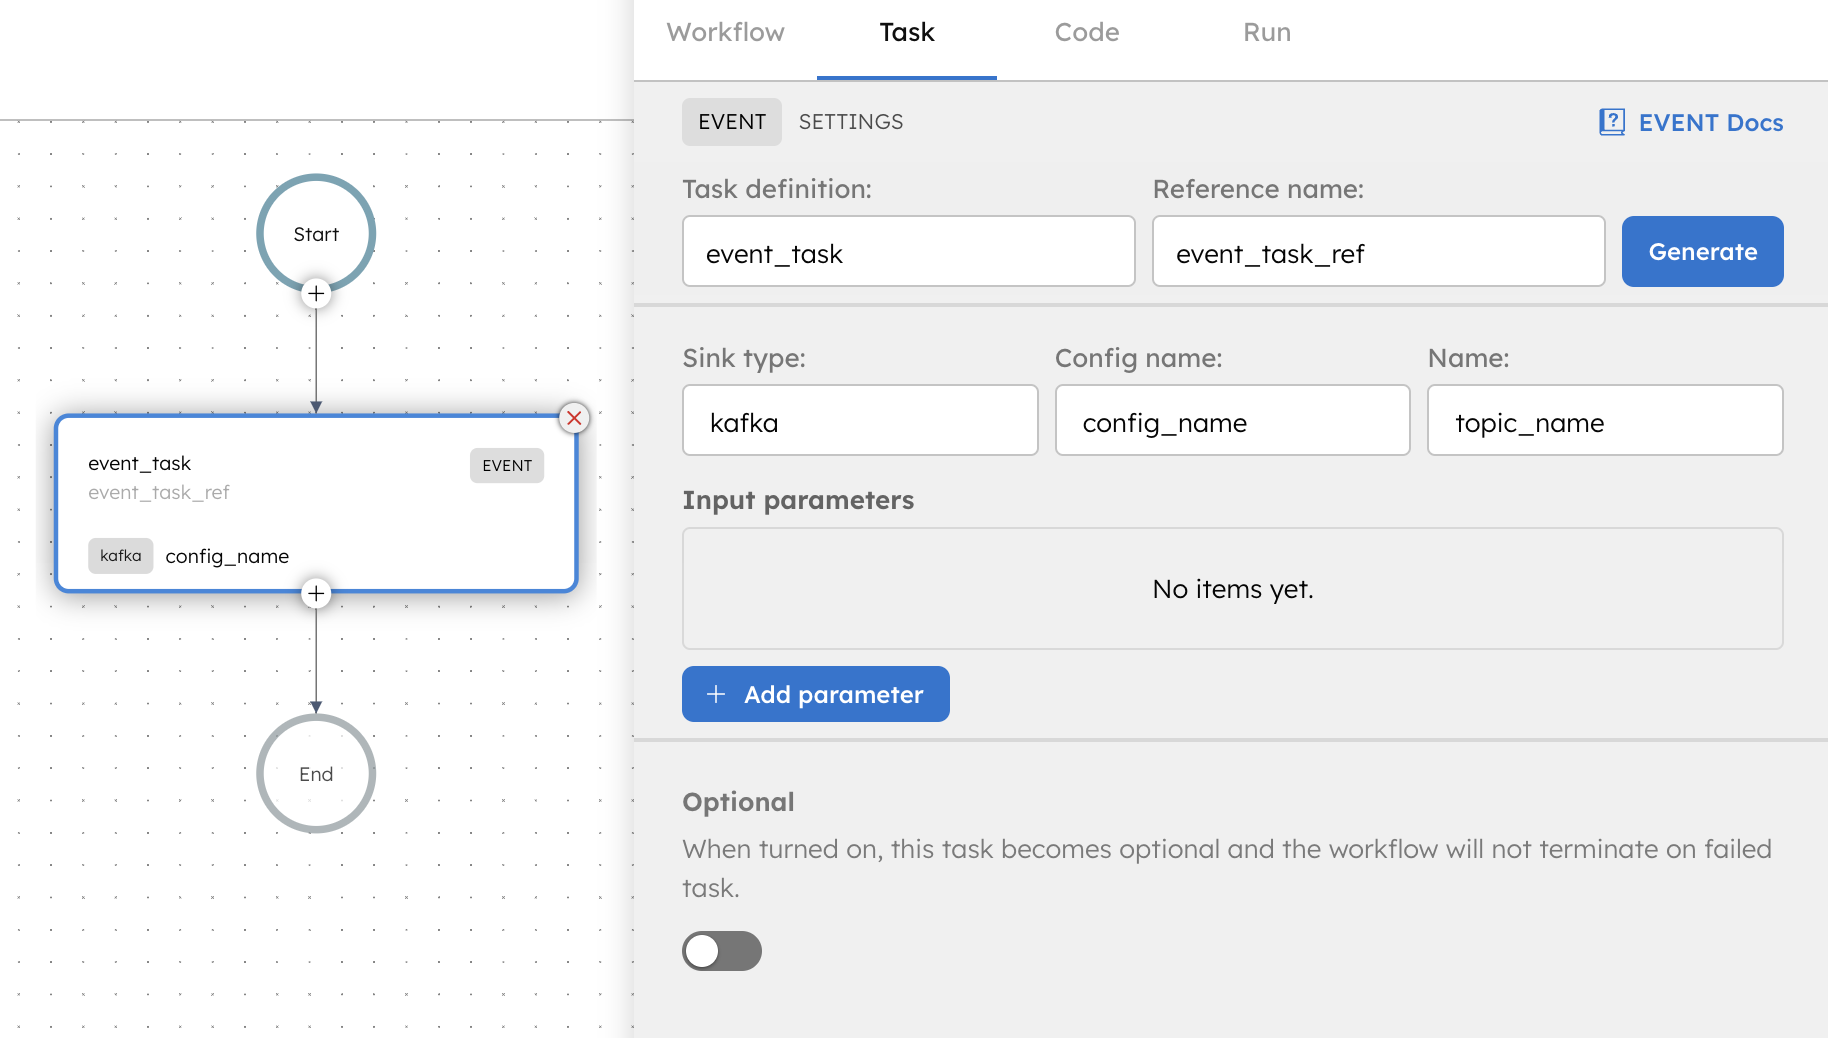
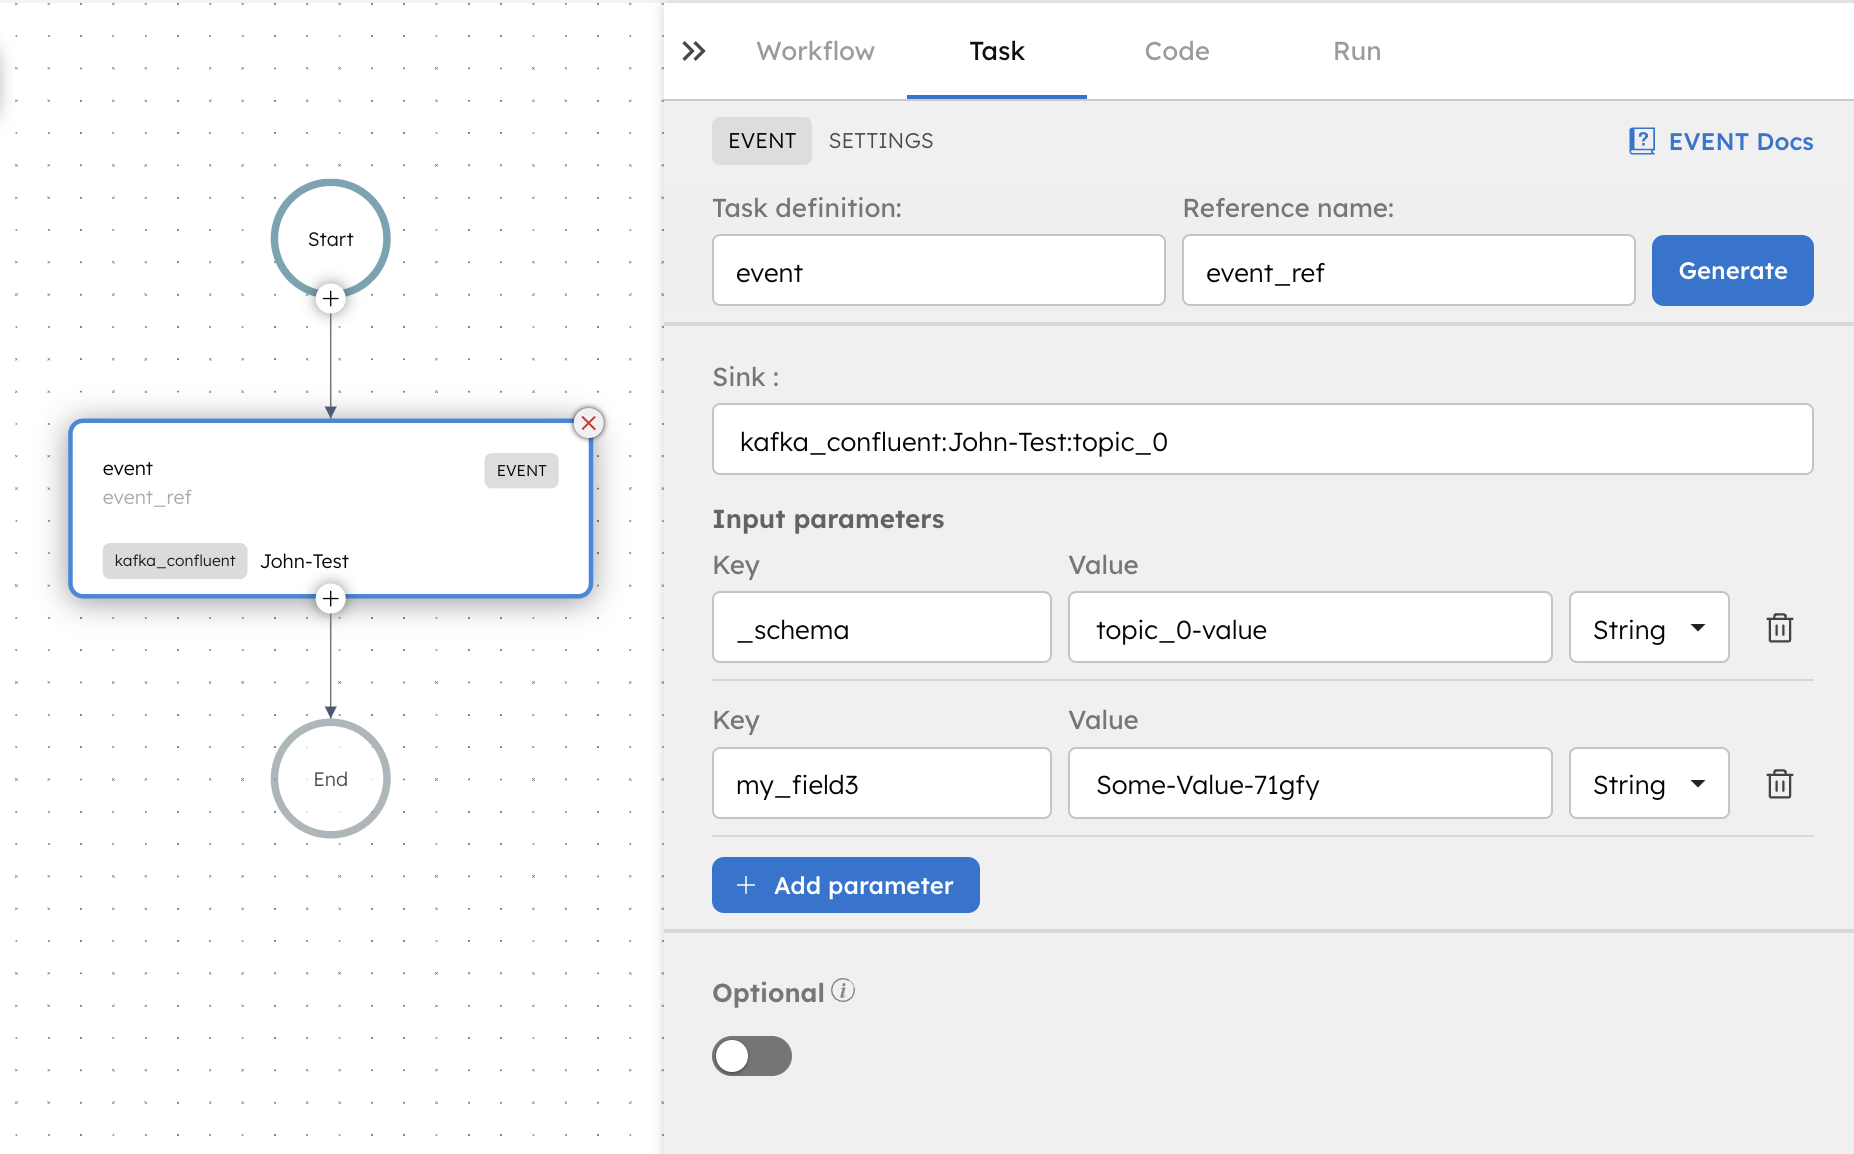
kafka-integration-doc

diff --git a/sidebars.js b/sidebars.js
@@ -123,11 +123,6 @@ const sidebars = {
                     id: 'developer-guides/sqs-integration',
                     label: "Orkes Conductor - SQS Integration"
                 },
-                {
-                    type: 'doc',
-                    id: 'developer-guides/integrating-orkes-conductor-with-confluent-cloud',
-                    label: "Orkes Conductor - Confluent Cloud"
-                },
             ],
             collapsible: true,
             collapsed: true,
@@ -459,6 +454,25 @@ const sidebars = {
                             type: 'doc',
                             id: 'integrations/vector-databases/weaviate',
                             label: 'Weaviate',
+                        },
+                    ],
+                    collapsible: true,
+                    collapsed: true,
+                    className: 'leftMenuHeader',
+                },
+                {
+                    type: 'category',
+                    label: 'Message Broker',
+                    link: {
+                        type: 'generated-index',
+                        title: 'Message Broker',
+                        slug: '/category/integrations/message-broker'
+                    },
+                    items: [
+                        {
+                            type: 'doc',
+                            id: 'integrations/message-broker/confluent-kafka',
+                            label: 'Confluent Kafka',
                         },
                     ],
                     collapsible: true,

diff --git a/docs/integrations/message-broker/confluent-kafka.md b/docs/integrations/message-broker/confluent-kafka.md
@@ -1,0 +1,209 @@
+# Integrating Confluent Kafka with Orkes Conductor
+
+This developer guide includes the steps to integrate Confluent Kafka with Orkes Conductor. This integration lets you connect your Confluent Kafka cluster to Conductor to publish and receive messages from queues/topics.
+
+## Get Configuration Credentials from Confluent Kafka
+
+Before beginning the integration process in Orkes Conductor, you must get specific configuration credentials such as the Bootstrap server, Schema registry URLs  & API keys from Confluent Cloud.
+
+To obtain the API Keys:
+
+1. From your [Confluent Cloud portal](https://confluent.cloud/), choose your cluster to be integrated with Orkes Conductor and navigate to **Cluster Overview > API Keys**.
+2. Create a new key by clicking **Create Key/+Add key** and selecting the required access (Global access/Granular access).
+3. Note down the values for the **Key** and **Secret**.
+
+<p align="center"><img src="/content/img/generating-api-keys-confluent.png" alt="Generating API Keys from Confluent Cloud" width="100%" height="auto"/></p>
+
+To get the Bootstrap server:
+
+1. Navigate to **Cluster Overview > Cluster Settings > Endpoints** and copy the **Bootstrap server**.
+
+<p align="center"><img src="/content/img/getting-bootstrap-token.png" alt="Getting Bootstrap token from Confluent Cloud" width="100%" height="auto"/></p>
+
+2. Then, navigate to **Topics** to see the list of topics on this cluster and identify the **Topic name** to use for this integration.
+
+<p align="center"><img src="/content/img/topics.png" alt="Topics in Confluent Cloud" width="100%" height="auto"/></p>
+
+To get the Schema registry server, API key & secret (This is only required if you are integrating with a schema registry):
+
+1. Go to **Clients > Add new client.**
+2. Under the **“Copy the configuration snippet for your clients”** section, copy the **_Schema Registry URL_** & download the Schema Registry API Key. The downloaded file will have the Schema Registry API Key & Secret.
+
+<p align="center"><img src="/content/img/schema-registry-url.png" alt="Getting Schema Registry URL" width="100%" height="auto"/></p>
+
+## Integrating with Confluent Kafka as a Message Broker
+
+Now, you have the required configuration credentials from Confluent Kafka. Let’s integrate with Orkes Conductor.
+
+1. Navigate to **Integrations** from the left menu on the Conductor cluster.
+2. Click **+ New integration** from the top-right corner of your window.
+3. Under the **Message Broker** section, choose **Confluent Kafka**.
+4. Click **+Add** and provide the following parameters:
+
+<p align="center"><img src="/content/img/integration-confluent-kafka.png" alt="Integration configuration for Confluent Kafka" width="50%" height="auto"/></p>
+
+| Paremeters | Description |
+| ---------- | ----------- |
+| Integration Name | A name to identify your integration. |
+| Bootstrap Server | Provide the bootstrap server for the cluster in your Confluent Kafka. Refer to the previous section on how to [get the bootstrap server](/content/integrations/message-broker/confluent-kafka#get-configuration-credentials-from-confluent-kafka). |
+| Sending Protocol | Choose the required sending protocol for the integration. It can take two values:<ul><li>String</li><li>AVRO</li></ul>If you are integrating with a schema registry, choose AVRO as the sending protocol. |
+| Connection Security | Choose the connection security. Currently supports **_SASL_SSL/PLAIN_**. |
+| Username | Provide the [API Key copied previously](/content/integrations/message-broker/confluent-kafka#get-configuration-credentials-from-confluent-kafka). |
+| Password | Provide the [API Secret copied previously](/content/integrations/message-broker/confluent-kafka#get-configuration-credentials-from-confluent-kafka). |
+| Schema Registry URL | Provide the Schema Registry URL from the Confluent Kafka console. [Refer to the previous section on how to get this](/content/integrations/message-broker/confluent-kafka#get-configuration-credentials-from-confluent-kafka).<br/>This field is only applicable if the **_Sending Protocol_** is chosen as AVRO. |
+| Schema Registry API Key | Provide the Schema Registry API Key from the Confluent Kafka console. [Refer to the previous section on how to get this](/content/integrations/message-broker/confluent-kafka#get-configuration-credentials-from-confluent-kafka).<br/>This field is only applicable if the **_Sending Protocol_** is chosen as AVRO. |
+| Schema Registry API Secret | Provide the Schema Registry API Secret from the Confluent Kafka console. [Refer to the previous section on how to get this](/content/integrations/message-broker/confluent-kafka#get-configuration-credentials-from-confluent-kafka).<br/>This field is only applicable if the **_Sending Protocol_** is chosen as AVRO. |
+| Description | Provide a description of the integration. | 
+
+5. You can toggle on the **Active** button to activate the integration instantly.
+6. Click **Save**.
+
+## Creating Event Handlers in Orkes Conductor 
+
+The integration is created successfully now. The next step is to create an event handler in Orkes Conductor.
+
+To do this:
+
+1. Navigate to **Definitions > Event Handler** from the left menu on your Conductor console.
+2. Click **+ Define event handler** option from the top-right corner of the window.
+3. Create an event handler with the following configurations:
+
+<p align="center"><img src="/content/img/event-handler-confluent-kafka.png" alt="Configuring Event Handler for Confluent Kafka Integration" width="50%" height="auto"/></p>
+
+| Event Handler Parameters | Description |
+| ------------------------ | ----------- |
+| Name | Provide a name to identify your event handler definition. |
+| Event | Provide the event integration you have created in the following format:<br/><br/>**Type : Config Name : Topic Name**<br/><br/>Example: **kafka_confluent:john-test:topic_0**<br/><br/>**Notes**: The drop-down lists the integration you’ve added to the Conductor cluster automatically. You can choose that and add the topic name you want to publish/receive messages. |
+| Condition | Provide the ECMAScript to control the message processing if required. Check out the [event handler documentation](https://orkes.io/content/developer-guides/event-handler#configuring-an-event-handler) for more details. |
+| Actions | Choose the required actions to be carried out on receiving the events from Kafka. It can take the following values:<ul><li>Complete Task</li><li>Terminate Workflow</li><li>Update Variables</li><li>Fail Task</li><li>Start Workflow</li></ul>Each type of action requires and supports a certain set of input parameters. Check out the [event handler documentation](https://orkes.io/content/developer-guides/event-handler#configuring-an-event-handler) for more details. |
+| Active | Set this to true or false. It determines if the event handler is running or not. |
+
+A sample JSON for the event handler is as follows:
+
+```json
+{
+ "name": "John-Test",
+ "event": "kafka_confluent:John-Test:topic_0",
+ "condition": "",
+ "actions": [
+   {
+     "action": "start_workflow",
+     "start_workflow": {
+       "name": "http-sample-test",
+       "version": 1,
+       "correlationId": "",
+       "input": {}
+     },
+     "expandInlineJSON": false
+   }
+ ],
+ "active": true,
+ "evaluatorType": "javascript"
+}
+```
+
+## RBAC - Governance on who can use Integrations
+
+Once the integration is added, the next step is determining who can access these integrations.
+
+The permissions can be granted to applications/groups within the Orkes Conductor cluster.
+
+To provide explicit permission to Groups:
+
+1. From the left menu on your Conductor cluster, navigate to **Access Control > Groups**.
+2. Create a new group or choose an existing group.
+3. Under the **Permissions** section, click **+Add Permission**.
+4. From the **Integrations** sub-tab, choose the integration with required permissions.
+5. Click **Add Permissions**. This ensures that all the group members can access these integration models in their workflows.
+
+<p align="center"><img src="/content/img/rbac-confluent-kafka.png" alt="Configuring RBAC for Confluent Kafka Integration" width="50%" height="auto"/></p>
+
+Similarly, you can also provide permissions to [applications](https://orkes.io/content/access-control-and-security/applications#configuring-application).
+
+## Creating Workflow in Orkes Conductor 
+
+This step involves creating a workflow with an event task in Orkes Conductor. Here, we are utilizing the Kafka queue as a sink for the event. 
+
+You can quickly build a workflow from UI in Orkes Conductor. 
+
+For this,
+
+1. Navigate to **Definitions > Workflow,** and click the **Define Workflow** button.
+2. Create a workflow with an event task with the **Sink** in the format **kafka_confluent:John-Test:topic_0**, where “John-Test” is the integration name and “topic_0” is the topic to which Conductor should send/receive messages.
+
+<p align="center"><img src="/content/img/event-task-confluent.png" alt="Event task in Orkes Conductor" width="80%" height="auto"/></p>
+
+3. Under the Input parameters, you need to provide the following parameters:
+    - **_schema** - Provide the topic name along with the subject. 
+        - To get the subject name, navigate to **Home > Environment** > Choose your environment on your Confluent console. 
+        - Under the **Schema Registry** sub-tab, you can get the subject name.
+        <p align="center"><img src="/content/img/subject-name-confluent.png" alt="Identifying subject name in Confluent Kafka" width="80%" height="auto"/></p>
+        - Provide this subject name as the input parameter “_schema” value while defining the workflow.
+4. Add all fields in your topic’s schema as the input parameters in the workflow definition.
+    - You can get your schema for the topic by navigating to the “Schema” subtab from your topic and clicking on “Evolve schema”.
+     <p align="center"><img src="/content/img/schema-confluent.png" alt="Identifying Schema parameters" width="80%" height="auto"/></p>
+     - For example, The topic I’ve chosen here is **_topic_0_**, whose Schema is as follows:
+    
+```json
+     {
+  "doc": "Sample schema to help you get started.",
+  "fields": [
+    {
+      "doc": "The string is a unicode character sequence.",
+      "name": "my_field3",
+      "type": "string"
+    }
+  ],
+  "name": "sampleRecord",
+  "namespace": "com.mycorp.mynamespace",
+  "type": "record"
+}
+```
+
+- Ensure that all the “fields” here are mapped into the workflow definition.
+
+:::note
+Ensure to use a unique “name” & “namespace” to avoid any conflicts.
+:::
+
+So, in this example, the input parameter is as follows (including the schema fields & schema subject name):
+
+<p align="center"><img src="/content/img/input-parameters-confluent.png" alt="Input Parameters for Confluent Kafka Event" width="80%" height="auto"/></p>
+
+Here’s the JSON for the workflow:
+
+```json
+{
+ "name": "John-test",
+ "description": "Sample Workflow for Confluent Kafka Integration",
+ "version": 1,
+ "tasks": [
+   {
+     "name": "event",
+     "taskReferenceName": "event_ref",
+     "inputParameters": {
+       "_schema": "topic_0-value",
+       "my_field3": "Some-Value-71gfy"
+     },
+     "type": "EVENT",
+     "sink": "kafka_confluent:John-Test:topic_0"
+   }
+ ],
+ "schemaVersion": 2,
+ "ownerEmail": "devrel@orkes.io"
+}
+```
+
+### Executing Workflow in Orkes Conductor 
+
+The workflow can be run using different methods. You can use the **Run** button for quick testing, as shown in the image below:
+
+<p align="center"><img src="/content/img/running-workflow-confluent.png" alt="Running workflow from Orkes Conductor UI" width="80%" height="auto"/></p>
+
+Upon successful execution, you can verify the message's delivery through the Confluent Cloud portal. Navigate to the topic and check for messages to verify that the message is consumed successfully.
+
+<p align="center"><img src="/content/img/verifying-confluent.png" alt="Verifying the consumed message from Confluent Kafka" width="100%" height="auto"/></p>
+
+The action added in the event handler definition was to start the workflow **http-sample-test**. You can verify the same from the **Executions > Workflow** page.
+
+<p align="center"><img src="/content/img/event-handler-action-confluent.png" alt="Starting workflow on consuming events" width="100%" height="auto"/></p>
